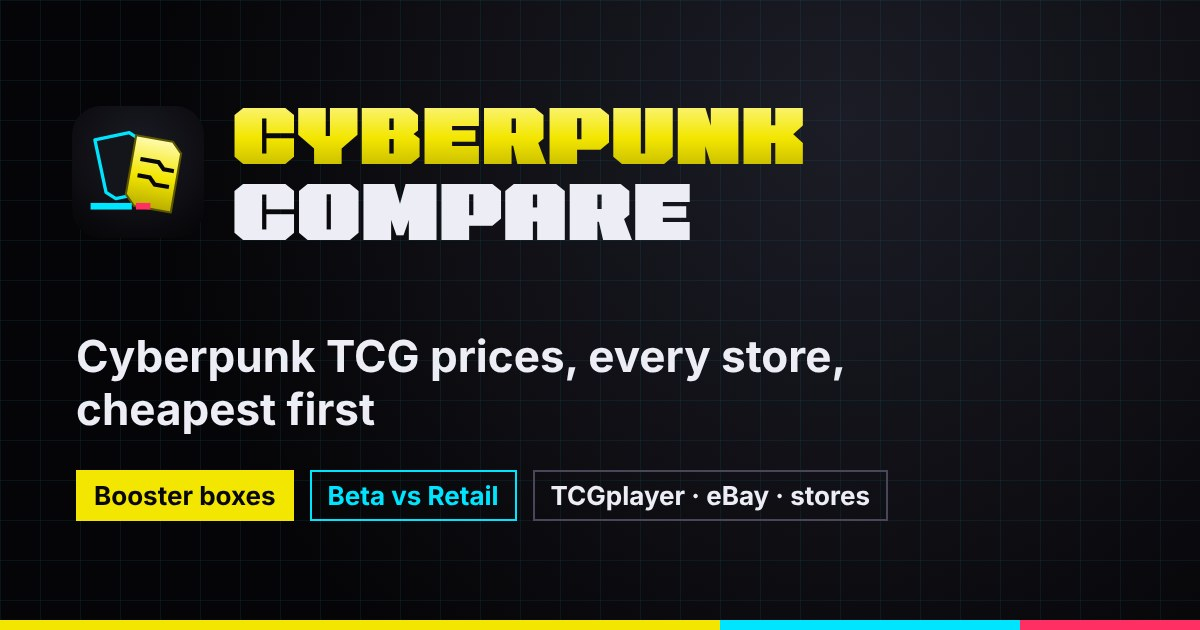
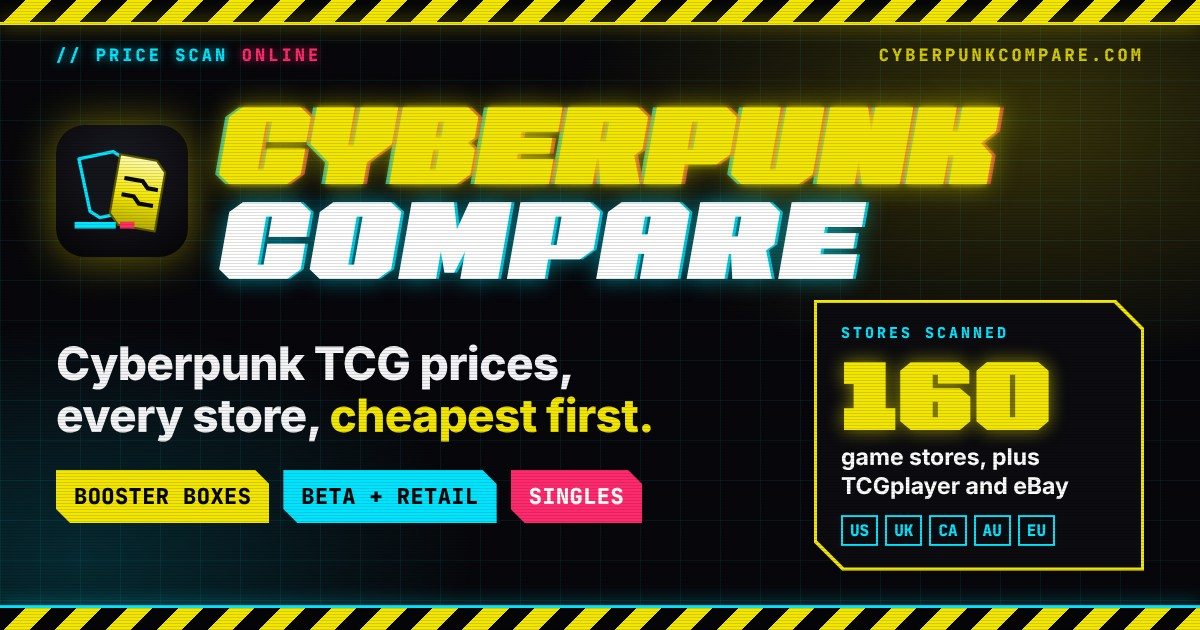
Neon share image for link previews (yellow and black, hazard stripes) (#17)
The home page's og:image and Twitter card now match the site's neon look:
glowing CYBERPUNK COMPARE wordmark, a "160 stores scanned" panel and the five
markets. Source and redraw steps in docs/share-image/.

Claude-Session: https://claude.ai/code/session_01FFgMDadcovKt1EkPmNAbYw

diff --git a/docs/share-image/og.html b/docs/share-image/og.html
@@ -1,0 +1,54 @@
+<!doctype html><html><head><meta charset="utf-8">
+<link href="https://fonts.googleapis.com/css2?family=Tomorrow:ital,wght@0,700;0,900;1,900&family=Inter:wght@600;700;800&family=JetBrains+Mono:wght@700;800&display=swap" rel="stylesheet">
+<style>
+*{margin:0;padding:0;box-sizing:border-box}
+html,body{width:1200px;height:630px;overflow:hidden;background:#050507}
+.s{position:relative;width:1200px;height:630px;overflow:hidden;
+ background:
+  radial-gradient(640px 360px at 1020px 120px, rgba(243,230,0,.20), transparent 70%),
+  radial-gradient(560px 340px at 80px 560px, rgba(0,229,255,.16), transparent 70%),
+  linear-gradient(rgba(0,229,255,.07) 1px,transparent 1px) 0 0/40px 40px,
+  linear-gradient(90deg,rgba(0,229,255,.07) 1px,transparent 1px) 0 0/40px 40px,
+  #07070b;font-family:Inter,sans-serif;color:#f4f4f7}
+.s:after{content:"";position:absolute;inset:0;background:repeating-linear-gradient(0deg,rgba(0,0,0,.13) 0 1px,transparent 1px 3px);pointer-events:none}
+.haz{position:absolute;left:0;right:0;height:22px;background:repeating-linear-gradient(-45deg,#f3e600 0 18px,#050507 18px 36px)}
+.top{top:0}.bot{bottom:0}
+.bar{position:absolute;left:0;right:0;top:22px;height:3px;background:#f3e600;box-shadow:0 0 18px #f3e600}
+.bar2{position:absolute;left:0;right:0;bottom:22px;height:3px;background:#00e5ff;box-shadow:0 0 18px #00e5ff}
+.tag{position:absolute;top:44px;left:56px;font:800 17px 'JetBrains Mono',monospace;letter-spacing:.18em;color:#00e5ff;text-shadow:0 0 10px rgba(0,229,255,.7)}
+.tag b{color:#ff2a6d;text-shadow:0 0 10px rgba(255,42,109,.7)}
+.tagr{position:absolute;top:44px;right:56px;font:800 17px 'JetBrains Mono',monospace;letter-spacing:.18em;color:rgba(243,230,0,.85)}
+.logo{position:absolute;left:56px;top:96px;display:flex;align-items:center;gap:26px}
+.logo img{width:132px;height:132px;filter:drop-shadow(0 0 22px rgba(243,230,0,.45))}
+.w1{font:italic 900 104px/0.9 Tomorrow,sans-serif;color:#f3e600;letter-spacing:-.01em;
+ text-shadow:0 0 6px rgba(243,230,0,.9),0 0 28px rgba(243,230,0,.55),4px 0 0 rgba(255,42,109,.75),-4px 0 0 rgba(0,229,255,.75)}
+.w2{font:italic 900 104px/0.92 Tomorrow,sans-serif;color:#fff;letter-spacing:.02em;
+ text-shadow:0 0 22px rgba(0,229,255,.55),3px 0 0 rgba(0,229,255,.8)}
+.line{position:absolute;left:56px;top:338px;font:800 46px/1.12 Inter,sans-serif;letter-spacing:-.015em;width:700px}
+.line em{font-style:normal;color:#f3e600}
+.chips{position:absolute;left:56px;top:470px;display:flex;gap:14px}
+.chip{font:800 22px 'JetBrains Mono',monospace;padding:12px 18px;letter-spacing:.02em;
+ clip-path:polygon(0 0,calc(100% - 14px) 0,100% 14px,100% 100%,14px 100%,0 calc(100% - 14px))}
+.y{background:#f3e600;color:#050507}
+.c{background:#00e5ff;color:#050507}
+.p{background:#ff2a6d;color:#fff}
+.panel{position:absolute;right:56px;top:300px;width:330px;padding:3px;background:#f3e600;
+ clip-path:polygon(0 0,calc(100% - 28px) 0,100% 28px,100% 100%,28px 100%,0 calc(100% - 28px));
+ box-shadow:0 0 40px rgba(243,230,0,.5)}
+.pin{background:#0b0b10;padding:20px 24px 22px;clip-path:polygon(0 0,calc(100% - 27px) 0,100% 27px,100% 100%,27px 100%,0 calc(100% - 27px))}
+.pl{font:800 15px 'JetBrains Mono',monospace;letter-spacing:.2em;color:#00e5ff}
+.pn{font:900 92px/1 Tomorrow,sans-serif;color:#f3e600;text-shadow:0 0 18px rgba(243,230,0,.6);margin-top:4px}
+.ps{font:700 23px/1.25 Inter,sans-serif;color:#fff;margin-top:4px}
+.mk{display:flex;gap:7px;margin-top:14px}
+.mk span{font:800 16px 'JetBrains Mono',monospace;border:2px solid #00e5ff;color:#00e5ff;padding:3px 7px}
+</style></head><body><div class="s">
+<div class="haz top"></div><div class="bar"></div>
+<div class="tag">// PRICE SCAN <b>ONLINE</b></div>
+<div class="tagr">CYBERPUNKCOMPARE.COM</div>
+<div class="logo"><img src="../../src/app/icon.svg"><div><div class="w1">CYBERPUNK</div><div class="w2">COMPARE</div></div></div>
+<div class="line">Cyberpunk TCG prices,<br>every store, <em>cheapest&nbsp;first.</em></div>
+<div class="chips"><div class="chip y">BOOSTER BOXES</div><div class="chip c">BETA + RETAIL</div><div class="chip p">SINGLES</div></div>
+<div class="panel"><div class="pin"><div class="pl">STORES SCANNED</div><div class="pn">160</div><div class="ps">game stores, plus TCGplayer and eBay</div>
+<div class="mk"><span>US</span><span>UK</span><span>CA</span><span>AU</span><span>EU</span></div></div></div>
+<div class="bar2"></div><div class="haz bot"></div>
+</div></body></html>

diff --git a/docs/share-image/shot.js b/docs/share-image/shot.js
@@ -1,0 +1,3 @@
+const {chromium}=require('playwright');(async()=>{const b=await chromium.launch();const p=await b.newPage({viewport:{width:1200,height:630}});
+await p.goto('file://'+process.cwd()+'/og.html');await p.waitForTimeout(1500);await p.evaluate(()=>document.fonts.ready);
+await p.screenshot({path:'og.png'});await b.close()})()

diff --git a/docs/share-image/README.md b/docs/share-image/README.md
@@ -1,0 +1,15 @@
+# The site's link thumbnail
+
+`src/app/opengraph-image.jpg` and `src/app/twitter-image.jpg` (the same file) are drawn from `og.html`
+here: neon yellow and black, hazard stripes, the site icon, no CD PROJEKT or WeirdCo art.
+
+To redraw it (e.g. when the store count changes):
+
+```
+cd docs/share-image && node shot.js            # writes og.png (1200×630)
+python3 -c "from PIL import Image;Image.open('og.png').convert('RGB').save('og.jpg',quality=90,optimize=True)"
+cp og.jpg ../../src/app/opengraph-image.jpg && cp og.jpg ../../src/app/twitter-image.jpg
+```
+
+Keep the wordmark inside the centre square (x 285–915) and nothing essential below y ≈ 575,
+where Reddit and X draw the domain. Look at the PNG before committing.
